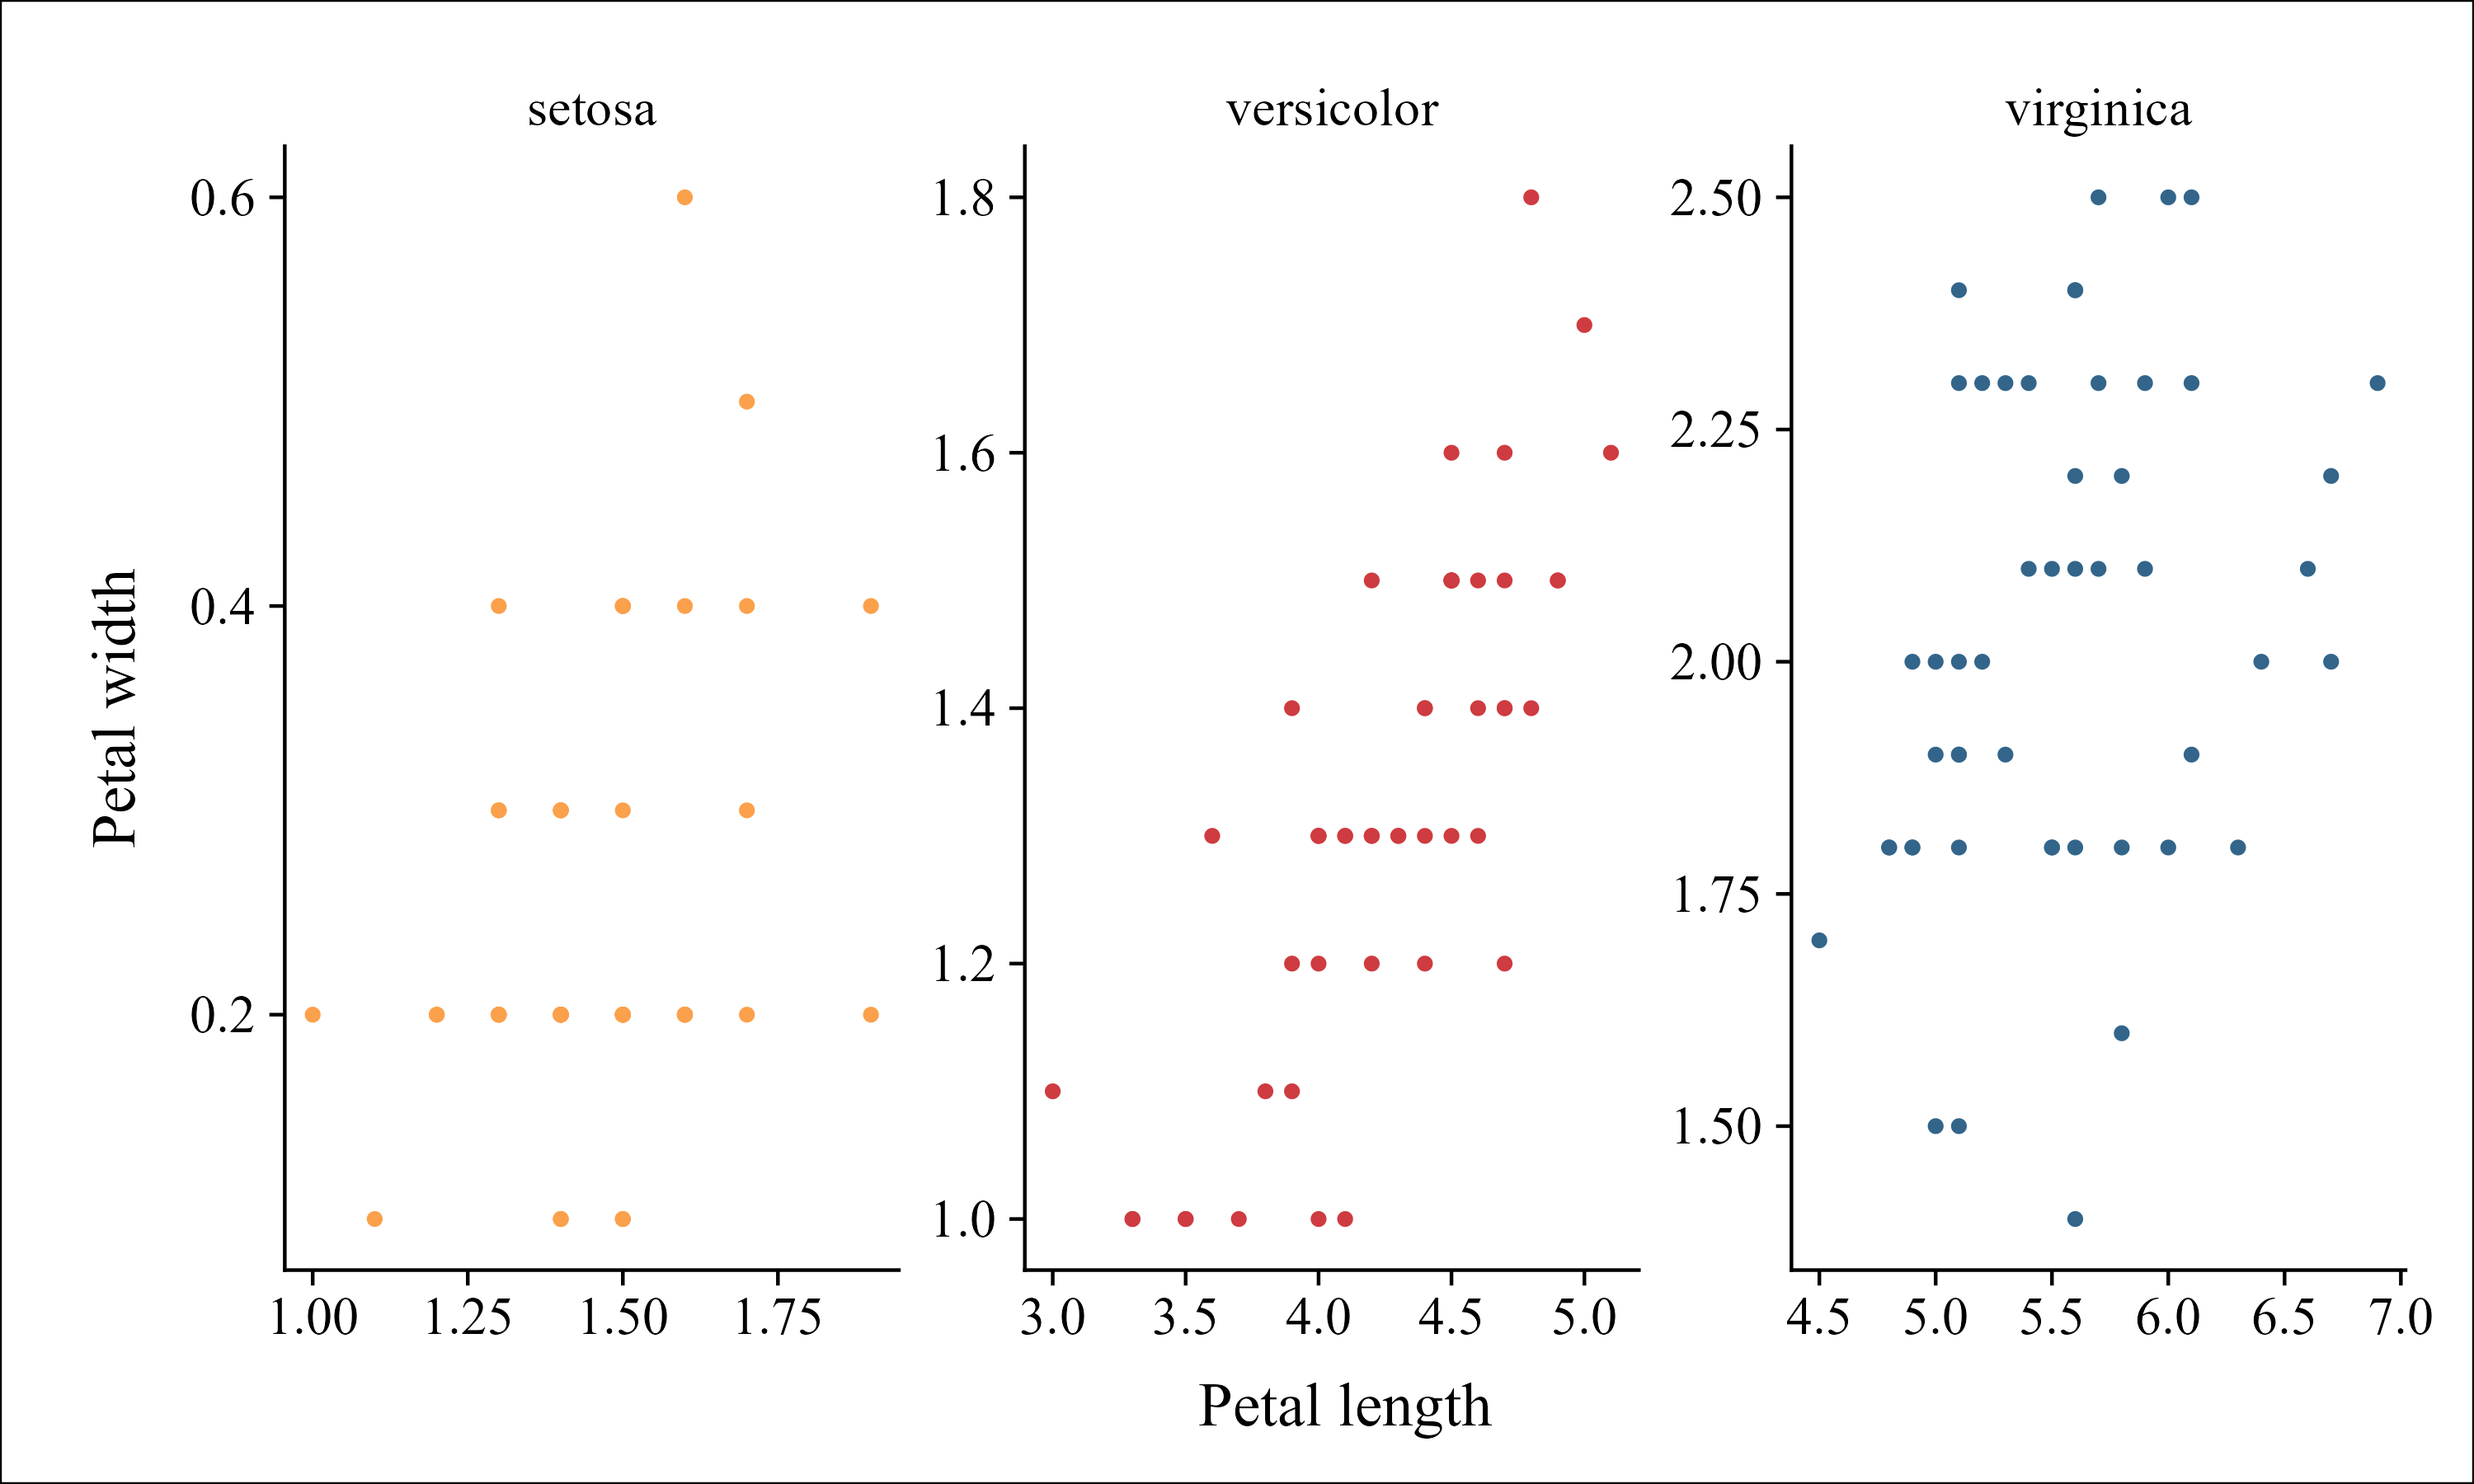
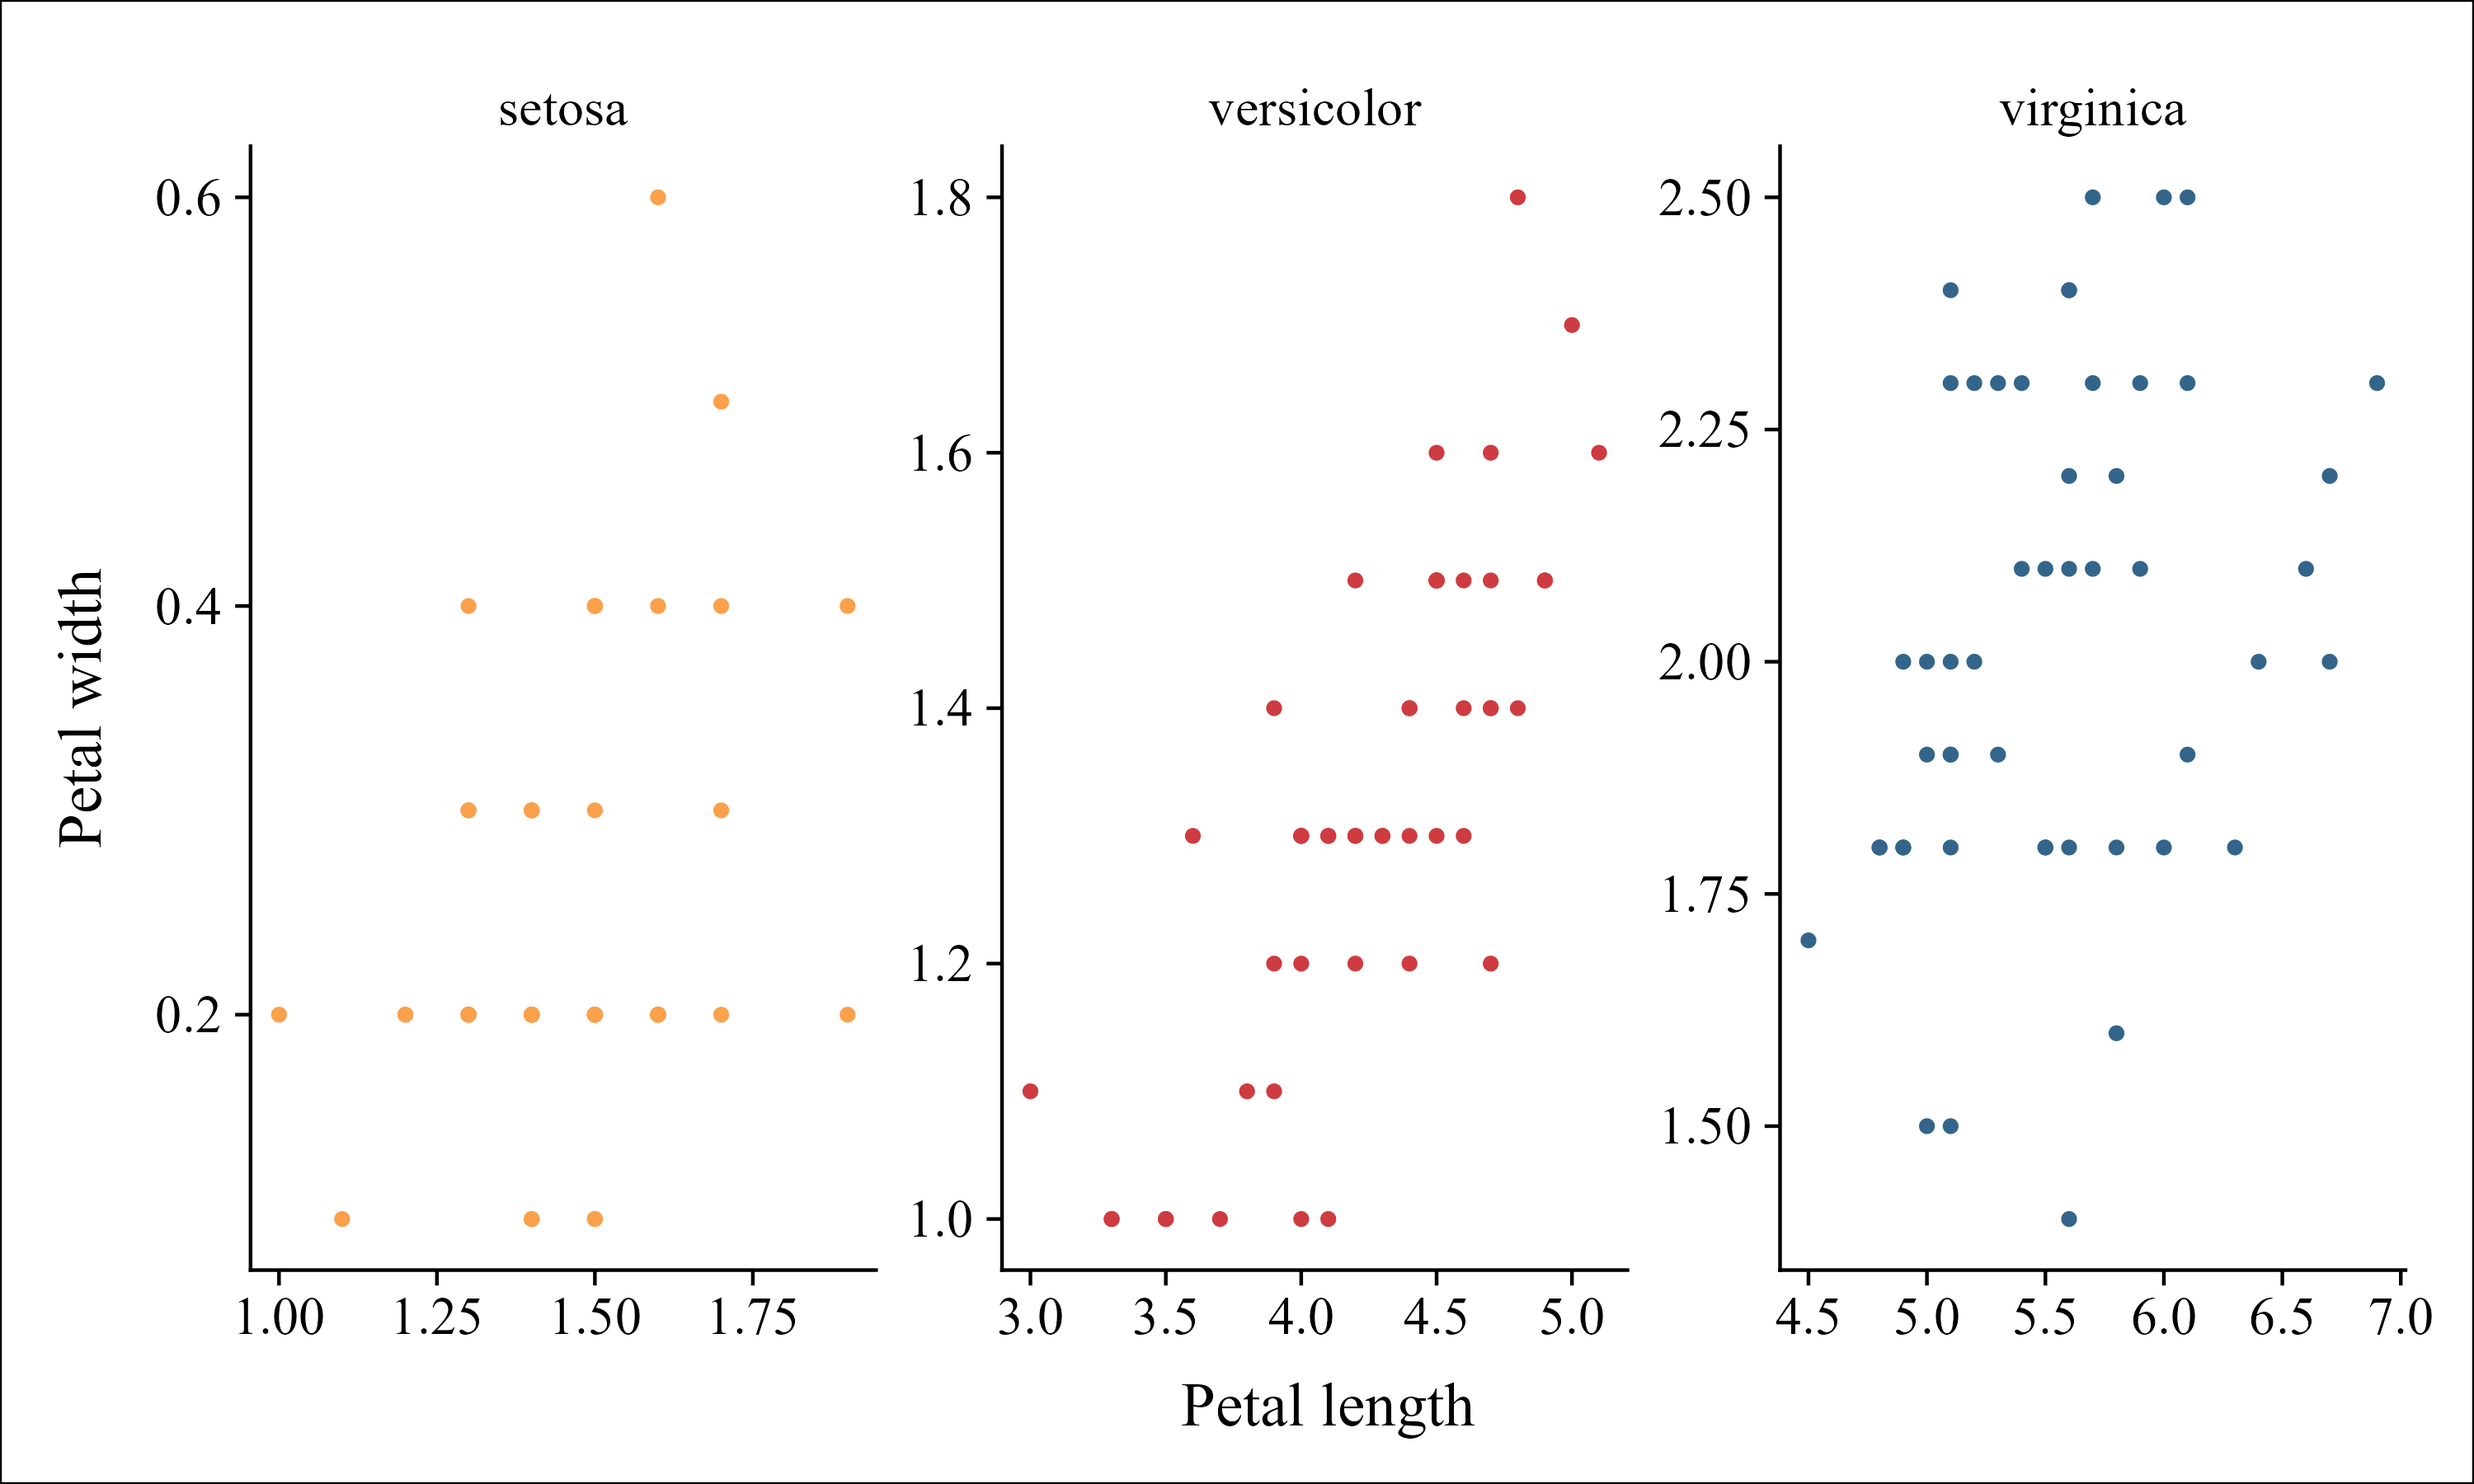
another margin adjust

diff --git a/README.md b/README.md
@@ -58,3 +58,4 @@ Violin plot:
 * a reference to color and adfg\_colors
 * add links to the other mentioned themes - theme\_adfg by justin was a draft but theme\_sleek by Andrew is live I think
 * clean up code- the hashtags mostly
+*potentially need to separate the function from the example figures code...
